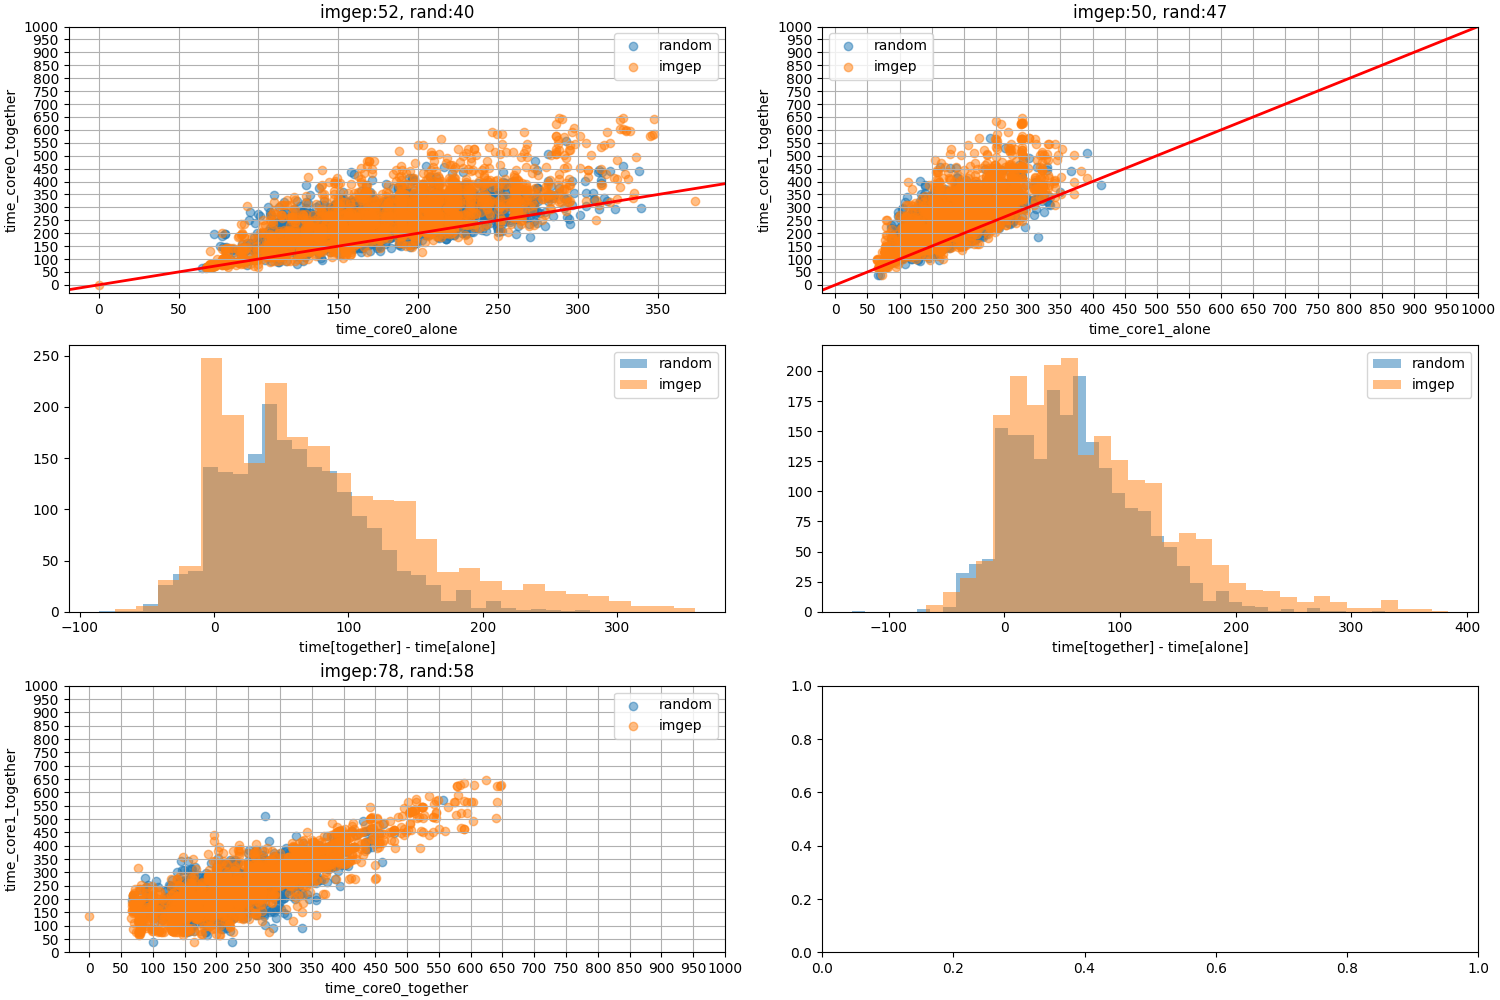
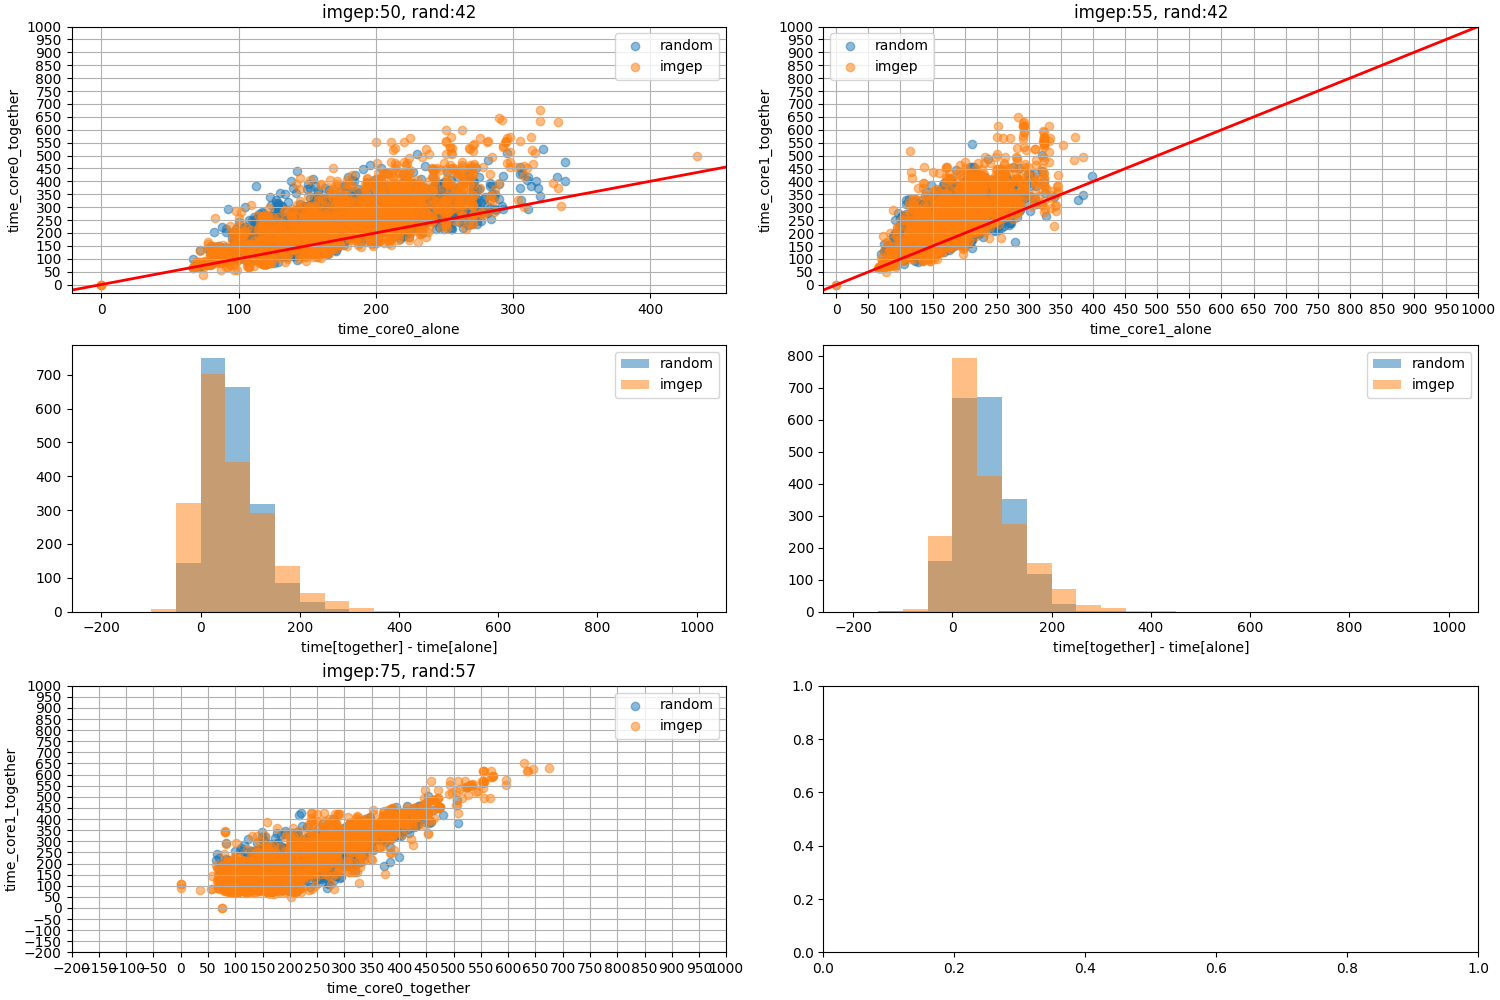
update

diff --git a/test.py b/test.py
@@ -36,7 +36,7 @@ if __name__=="__main__":
     with open(f"data/history_rand_N_{N}_{0}", "rb") as f:
         content_random = pickle.load(f)
     modules = ["time"]+ ["time_diff"]+[f"miss_bank_{j}" for j in range(num_bank)]+["ratios_diff"]+ [f"miss_count_bank_{j}" for j in range(num_bank)]
-    for k in []:
+    for k in [1]:
         G = GoalGenerator(num_bank = num_bank)
         Pi = OptimizationPolicykNN(k=k,mutation_rate=mutation_rate,max_len=50)
         H_imgep = History(max_size=N)
@@ -45,7 +45,7 @@ if __name__=="__main__":
         H_imgep.save_pickle(f"history_kNN_{k}_N_{N}")
         print(f"done: k = {k}")
     N = 2000
-    k = 3
+    k = 1
     for name in [f"data/history_kNN_{k}_N_{N}_0"]:
         with open(name, "rb") as f:
             content_imgep = pickle.load(f)

diff --git a/visu.py b/visu.py
@@ -21,10 +21,6 @@ def comparaison(content_random, content_imgep = None, name = None):
         axs[j,0].set_title("row miss hits ratio difference")
         axs[j,0].legend()
 
-        hist_rand = np.histogram(content_random["miss_ratios"][:,j] - content_random["miss_ratios_core1"][:,j], bins = bins)
-        hist_imgep = np.histogram(content_imgep["miss_ratios"][:,j] - content_imgep["miss_ratios_core1"][:,j], bins = bins)
-        print("hist_rand", hist_rand)
-        print("hist_imgep", hist_imgep)
 
         axs[j,1].bar(hist_rand[1][:-1],hist_rand[0], alpha = .5, label="random")
         axs[j,1].bar(hist_imgep[1][:-1],hist_imgep[0], alpha = .5, label="imgep")
